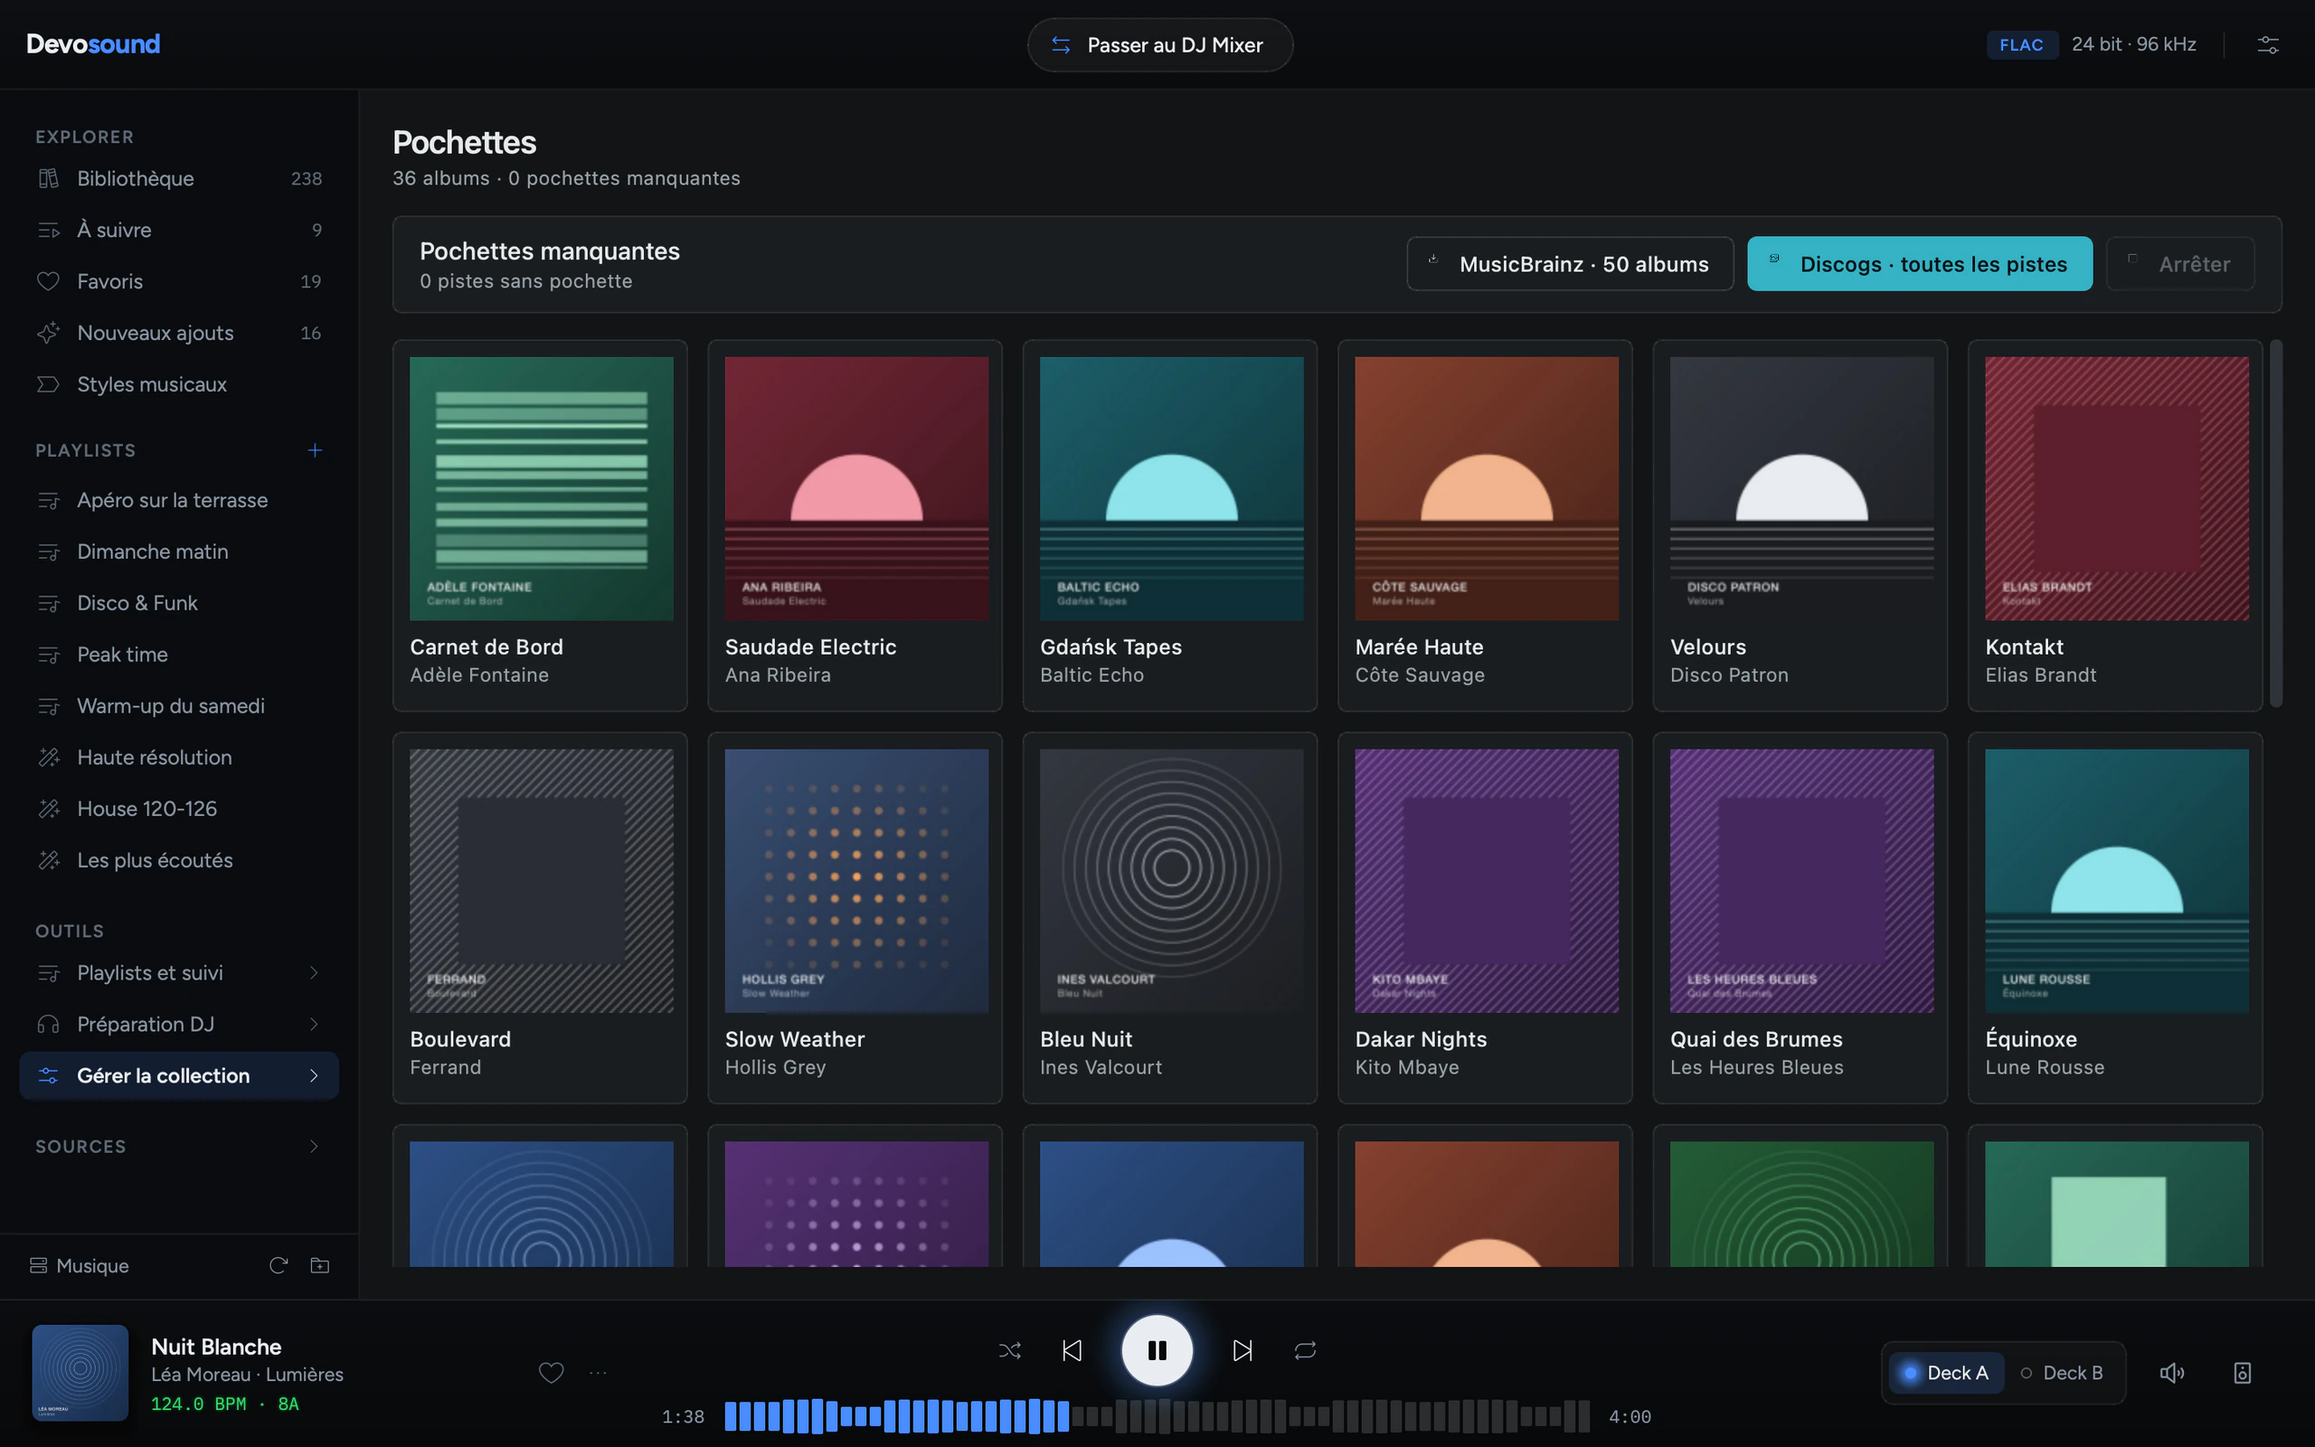
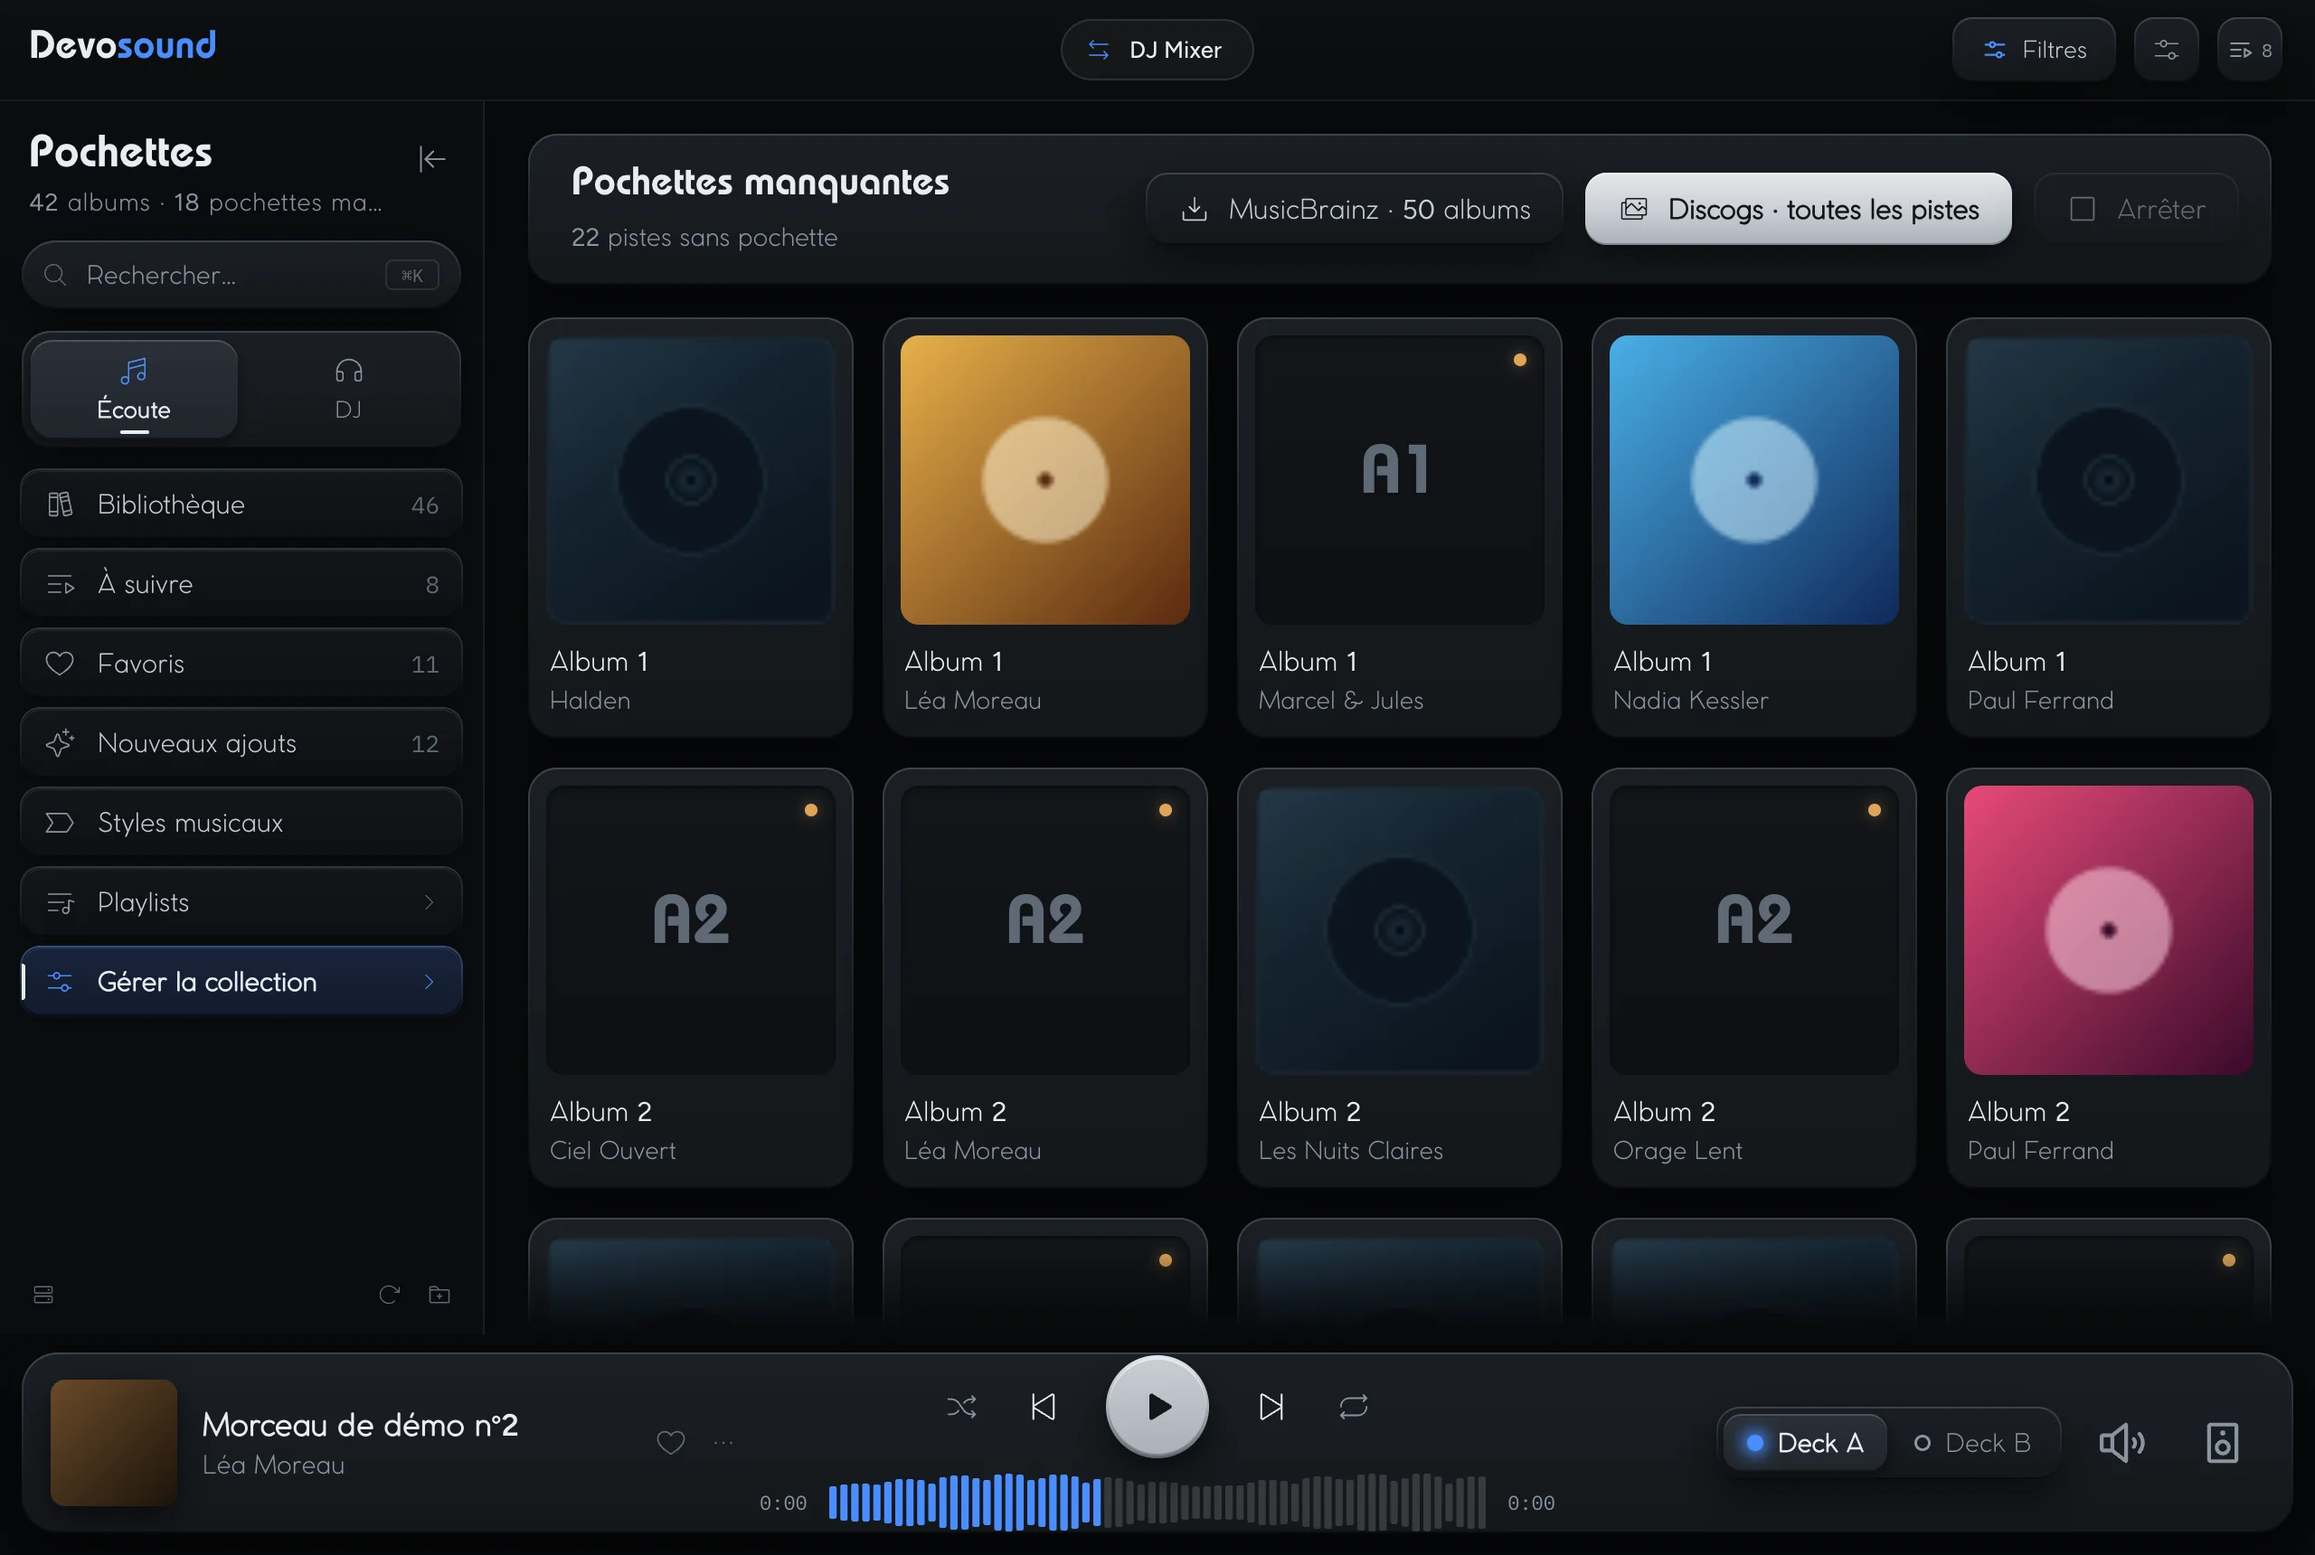
feat: captures de la maquette « bulle » (démo fictive, sans achat HD)
Bibliothèque, Favoris, Styles, BPM, Pochettes, Playlists et Harmonic Mix
viennent de la maquette devosound-design, noms d'artistes remplacés par
des noms fictifs. Le relais garde l'ancienne Bibliothèque, appariée au
DJ Mixer tant que sa maquette n'existe pas.

Claude-Session: https://claude.ai/code/session_01BVCymzA4d4BUeodqtGdPrs

diff --git a/src/lib/config.tsx b/src/lib/config.tsx
@@ -6,6 +6,8 @@ import djMixerRelay from "@/assets/screens/dj-mixer-relay.webp";
 import favorites from "@/assets/screens/favorites.webp";
 import history from "@/assets/screens/history.webp";
 import libraryPlaying from "@/assets/screens/library-playing.webp";
+// Ancien thème : reste apparié au DJ Mixer tant que sa maquette n'existe pas.
+import relayLibrary from "@/assets/screens/relay-library.webp";
 import player from "@/assets/screens/player.webp";
 import smartPlaylist from "@/assets/screens/smart-playlist.webp";
 import stats from "@/assets/screens/stats.webp";
@@ -219,7 +221,7 @@ export const siteConfig = {
     toggle: { listen: "Listen", mix: "Mix" },
     listen: {
       label: "Library",
-      image: libraryPlaying,
+      image: relayLibrary,
       imageAlt: "Library view with Nuit Blanche by Léa Moreau in the player",
     },
     mix: {
@@ -453,7 +455,7 @@ export const siteConfig = {
       content:
         "The Camelot wheel suggests the tracks that fit the one you're playing.",
       imageSrc: harmonicWheel,
-      imageAlt: "Harmonic Mix view with the Camelot wheel",
+      imageAlt: "Harmonic Mix view with the Camelot wheel and the tracks that fit the one playing",
       fullWidth: true,
       chips: [],
       note: "Pick a key: same number, one step either way, or its relative major / minor.",
